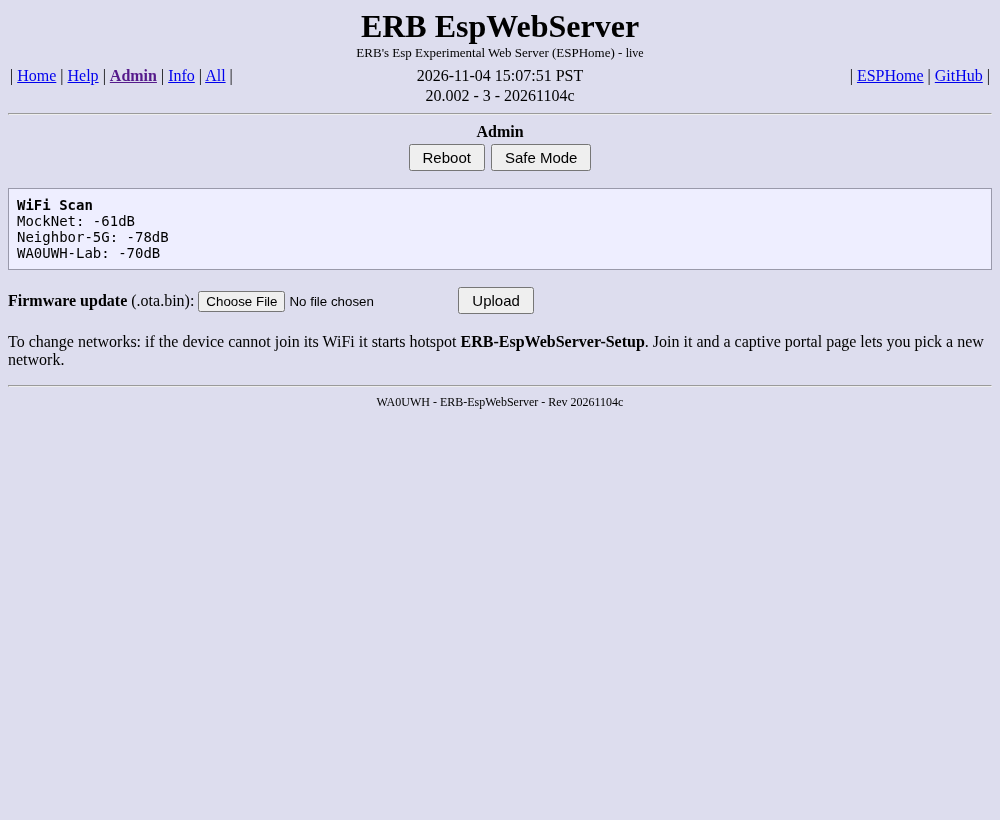
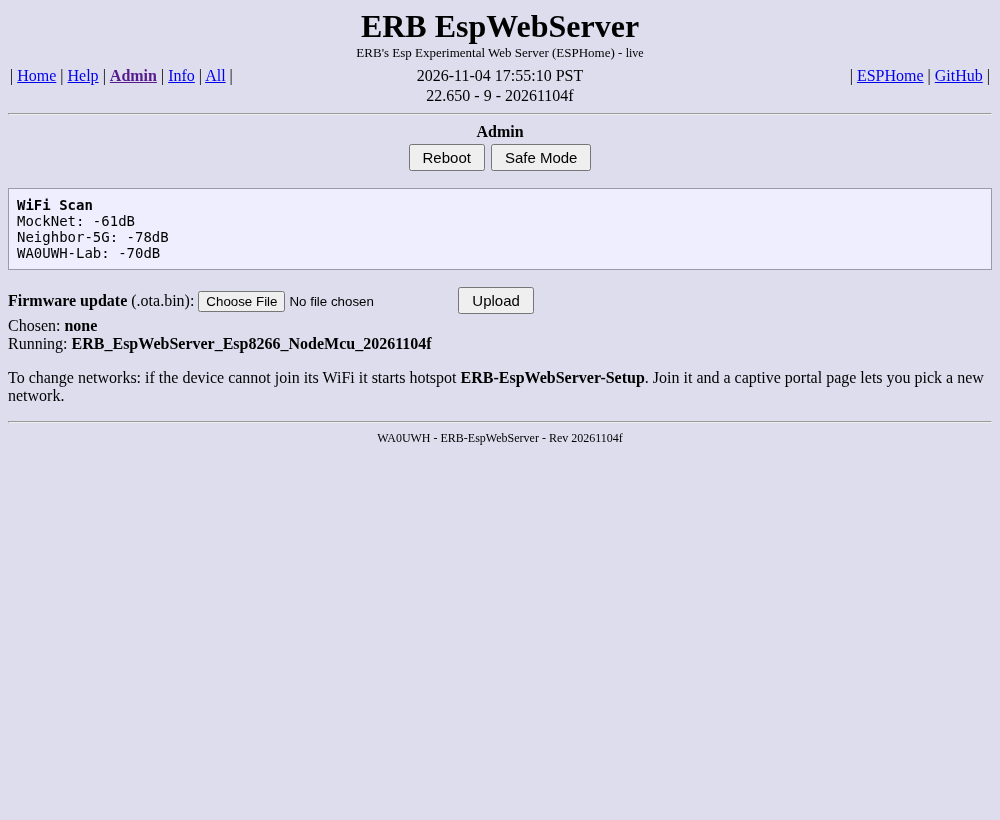
ESPHome Rev 20261104f: show Build Name (bin base name) on the page
- per-board substitutions Rev + Build_Name, equal to the bin base name
- Build Name / Build Time text sensors; footer + Info tab show them
- Admin upload shows chosen file vs running build, warns on board/variant mismatch
- guide: PlainLed48 first for HW-747; review yaml regenerated

Changed region(s): [[0.0, 0.3963, 0.992, 0.5488], [0.434, 0.0915, 0.589, 0.122]]

diff --git a/esphome/www/erb_ui.js b/esphome/www/erb_ui.js
@@ -1,11 +1,11 @@
 // Authors: Grok and Eldon R. Brown - WA0UWH
-// Rev: 20261104e
+// Rev: 20261104f
 // ERB_UI - custom multi-page UI for the standalone ESPHome ERB-EspWebServer.
 // Recreates the 2015 Home / Help / Admin / Info pages + Navigator, from flash, no internet.
 // Data: /events SSE ("state" events, id = "<domain>/<Entity Name>"); actions: REST POST.
 (function () {
   var Hist_Min = 30, Hist = [], S = {}, Page = 'home', Hits = 0;
-  var Rev = '20261104e';
+  var Rev = '20261104f';
   var css = 'body{background:#ddddee;font-family:Times New Roman,serif;margin:8px;color:#000}' +
     'h1{text-align:center;margin:4px}h1 small{font-size:13px;font-weight:normal;display:block}' +
     '.Nav{width:100%;border-collapse:collapse}.Nav td{padding:2px}.Nav a{color:#00e;cursor:pointer;text-decoration:underline}' +
@@ -87,7 +87,7 @@
         '<br>Input 1 is <b id="v_binary_sensor_Input_1">' + Esc(V('binary_sensor/Input 1')) + '</b></div>';
     },
     info: function () {
-      return '<pre>' + Row('Version', 'text_sensor/ESPHome Version') + Row('UI Rev', 'x/rev') + Row('Uptime', 'sensor/Uptime') +
+      return '<pre>' + Row('Build Name', 'text_sensor/Build Name') + Row('Build Time', 'text_sensor/Build Time') + Row('ESPHome', 'text_sensor/ESPHome Version') + Row('UI Rev', 'x/rev') + Row('Uptime', 'sensor/Uptime') +
         Row('Reset Reason', 'text_sensor/Reset Reason') + Row('Device', 'text_sensor/Device Info') +
         Row('IP Address', 'text_sensor/IP Address') + Row('SSID', 'text_sensor/Connected SSID') + Row('BSSID', 'text_sensor/Connected BSSID') +
         Row('RSSI', 'sensor/WiFi Signal') + Row('MAC', 'text_sensor/MAC Address') + Row('Free Heap', 'sensor/Free Heap') +
@@ -100,7 +100,7 @@
       return '<div class="Ctr"><b>Admin</b><br><button data-act="button/Restart/press" data-q="Reboot the device?">Reboot</button>' +
         '<button data-act="button/Restart (Safe Mode)/press" data-q="Reboot into Safe Mode (OTA only)?">Safe Mode</button></div>' +
         '<pre><b>WiFi Scan</b>\n<span id="v_text_sensor_WiFi_Scan">' + Esc(V('text_sensor/WiFi Scan')) + '</span></pre>' +
-        '<form id="otaF"><b>Firmware update</b> (.ota.bin): <input type="file" id="otaFile" accept=".bin"> <button type="submit">Upload</button> <span id="otaMsg"></span></form>' +
+        '<form id="otaF"><b>Firmware update</b> (.ota.bin): <input type="file" id="otaFile" accept=".bin"> <button type="submit">Upload</button><br>Chosen: <b id="otaName">none</b> <span id="otaMsg"></span><br>Running: <b>' + Esc(V('text_sensor/Build Name')) + '</b></form>' +
         '<p>To change networks: if the device cannot join its WiFi it starts hotspot <b>ERB-EspWebServer-Setup</b>. Join it and a captive portal page lets you pick a new network.</p>';
     },
     help: function () {
@@ -169,12 +169,18 @@
   });
   document.addEventListener('submit', function (ev) {
     if (ev.target.id != 'otaF') return; ev.preventDefault();
-    var f = $('otaFile').files[0]; if (!f || !confirm('Upload ' + f.name + ' and reboot?')) return;
+    var f = $('otaFile').files[0]; if (!f) return;
+    var run = V('text_sensor/Build Name'), want = Board(f.name), have = Board(run);
+    if (run != '--' && want != have && !confirm('WARNING: board/variant mismatch!\n  File:    ' + want + '\n  Running: ' + have + '\nUpload anyway?')) return;
+    if (!confirm('Upload ' + f.name + ' and reboot?')) return;
     var fd = new FormData(); fd.append('update', f, f.name); $('otaMsg').textContent = 'uploading...';
     fetch('/update', { method: 'POST', body: fd }).then(function (r) { return r.text().then(function (t) {
       $('otaMsg').textContent = r.ok ? 'done, rebooting: ' + t : 'failed (' + r.status + ') - this board may not have web OTA'; }); })
       .catch(function () { $('otaMsg').textContent = 'upload failed'; });
   });
+  // Board/variant part of a build name: drop folder, .factory/.ota.bin and the _YYYYMMDDx rev
+  function Board(n) { return String(n).split(/[\\/]/).pop().replace(/(\.factory|\.ota)?\.bin$/i, '').replace(/ ?\(\d+\)$/, '').replace(/_\d{8}[a-z]?$/, ''); }
+  document.addEventListener('change', function (ev) { if (ev.target.id == 'otaFile') { var f = ev.target.files[0]; $('otaName').textContent = f ? f.name : 'none'; } });
   document.addEventListener('change', function (ev) { if (ev.target.id == 'hMin') { Hist_Min = +ev.target.value; DrawLine(); } });
 
   function OnState(ev) {

diff --git a/esphome/mock/Shoot_Tabs.js b/esphome/mock/Shoot_Tabs.js
@@ -1,5 +1,5 @@
 // Authors: Grok and Eldon R. Brown - WA0UWH
-// Rev: 20261104d
+// Rev: 20261104f
 // Shoot_Tabs - headless screenshots of each ERB UI tab against Mock_Server.js.
 const puppeteer = require('/workspace/repos/grok-voice-reader-extension/chrome-extension/node_modules/puppeteer-core');
 const Out = require('path').join(__dirname, '..', 'screens');
@@ -20,10 +20,13 @@ const Out = require('path').join(__dirname, '..', 'screens');
   await p.click(`[data-pg="admin"]`); await p.click('[data-act="button/Restart/press"]');
   await p.click(`[data-pg="home"]`); await p.click('[data-led="Heartbeat"]'); await new Promise(r => setTimeout(r, 500));
   await p.click(`[data-pg="admin"]`);
-  require('fs').writeFileSync('/tmp/Test_Fw.ota.bin', Buffer.alloc(4096, 7));
-  await (await p.$('#otaFile')).uploadFile('/tmp/Test_Fw.ota.bin');
+  const Dlg = []; p.on('dialog', d => Dlg.push(d.message().split('\n')[0]));
+  const Fw = '/tmp/ERB_EspWebServer_Esp32S3_SuperMini_PlainLed48_20261104f.ota.bin'; require('fs').writeFileSync(Fw, Buffer.alloc(4096, 7));
+  await (await p.$('#otaFile')).uploadFile(Fw);
+  console.log('CHOSEN', await p.$eval('#otaName', e => e.textContent));
   await p.click('#otaF button'); await new Promise(r => setTimeout(r, 1000));
-  console.log('OTA MSG', await p.$eval('#otaMsg', e => e.textContent));
+  console.log('OTA MSG', await p.$eval('#otaMsg', e => e.textContent), 'DIALOGS', JSON.stringify(Dlg));
+  await p.click('[data-pg="admin"]'); await p.screenshot({ path: Out + '/3_Admin.png', fullPage: true });
   const nr = await fetch('http://127.0.0.1:8099/events'); console.log('NO-AUTH /events ->', nr.status);
   const posts = await (await fetch('http://127.0.0.1:8099/posts')).json();
   console.log('POSTS', JSON.stringify(posts), 'ERRORS', JSON.stringify(Errs));

diff --git a/esphome/mock/Mock_Server.js b/esphome/mock/Mock_Server.js
@@ -1,5 +1,5 @@
 // Authors: Grok and Eldon R. Brown - WA0UWH
-// Rev: 20261104d
+// Rev: 20261104f
 // Mock_Server - fakes the ESPHome v3 web_server (index, /0.js, /events SSE, POST actions)
 // (basic auth guest:grest only when MOCK_AUTH=1) so www/erb_ui.js can be tested in a browser. Usage: node Mock_Server.js [port]
 const http = require('http'), fs = require('fs'), path = require('path');
@@ -8,7 +8,7 @@ const JS = path.join(__dirname, '..', 'www', 'erb_ui.js');
 const S = {
   'sensor/Free Heap': [23456, '23456 B'], 'sensor/Vdd': [3.29, '3.29 V'], 'sensor/WiFi Signal': [-61, '-61 dBm'],
   'sensor/Uptime': [3725, '3725 s'], 'sensor/Heap Max Block': [18000, '18000 B'], 'sensor/Loop Time': [16, '16 ms'],
-  'text_sensor/ESPHome Version': [null, '2026.10.2'], 'text_sensor/Reset Reason': [null, 'Power On'],
+  'text_sensor/ESPHome Version': [null, '2026.10.2'], 'text_sensor/Build Name': [null, 'ERB_EspWebServer_Esp8266_NodeMcu_20261104f'], 'text_sensor/Build Time': [null, '2026-11-04 17:55:00 -0800'], 'text_sensor/Reset Reason': [null, 'Power On'],
   'text_sensor/Device Info': [null, '2026.10.2|Flash: 4096kB Speed:40MHz Mode:DIO|Chip: 0x00E42F'],
   'text_sensor/IP Address': [null, '10.10.10.42'], 'text_sensor/Connected SSID': [null, 'MockNet'],
   'text_sensor/Connected BSSID': [null, 'AA:BB:CC:DD:EE:FF'], 'text_sensor/MAC Address': [null, '5C:CF:7F:12:34:56'],

diff --git a/esphome/README.md b/esphome/README.md
@@ -1,9 +1,9 @@
-<!-- Authors: Grok and Eldon R. Brown - WA0UWH, Rev 20261104d -->
+<!-- Authors: Grok and Eldon R. Brown - WA0UWH, Rev 20261104f -->
 # ERB_EspWebServer (ESPHome, standalone)
 
 Standalone ESPHome rework of WA0UWH's early ERB-EspWebServer (Arduino IDE, 2015). No Home Assistant: no `api:` block; the device serves its own page (`web_server` v3) at `http://erb-espwebserver.local/`.
 
-Files: `common/ERB_Common.yaml` (shared), `ERB_EspWebServer_Esp8266.yaml` (nodemcuv2), `ERB_EspWebServer_Esp32S3_SuperMini.yaml` (HW-747 S3 Super Mini, 4 MB, LEDs IO4/5/6, input IO7, logs on USB), UI `www/erb_ui.js`.
+Files: `common/ERB_Common.yaml` (shared), `ERB_EspWebServer_Esp8266.yaml` (nodemcuv2), `ERB_EspWebServer_Esp32S3_SuperMini.yaml` (Ws2812) / `..._PlainLed48.yaml` (HW-747 S3 Super Mini, 4 MB, LEDs IO4/5/6, input IO7, logs on USB), UI `www/erb_ui.js`.
 
 Board (Esp8266): `nodemcuv2` (original drives LEDs on GPIO0/2/4, i.e. ESP-12 class). Alternative: `esp01_1m` for an ESP-01 (remove Blue LED / GPIO4 and the GPIO5 input; only GPIO0/2 are broken out).
 
@@ -20,7 +20,7 @@ Board (Esp8266): `nodemcuv2` (original drives LEDs on GPIO0/2/4, i.e. ESP-12 cla
 | Reboot | `restart` and `safe_mode` buttons | none |
 | Home/Help/Info/Admin pages, Navigator | erb_ui.js tabs + Navigator + "All" entity tab; live via /events | Visitor Map, Farm image, demo graphics, sliders (not needed) |
 
-Web login: none for now (auth block commented in common/, can be re-enabled). Custom UI: `www/erb_ui.js` is compiled into flash (`js_include`, `js_url: ""`), so the page needs no internet. Test without hardware: `node mock/Mock_Server.js` then open http://127.0.0.1:8099/.
+Each build shows its Build Name (= bin base name) and build time on the page. Web login: none for now (auth block commented in common/, can be re-enabled). Custom UI: `www/erb_ui.js` is compiled into flash (`js_include`, `js_url: ""`), so the page needs no internet. Test without hardware: `node mock/Mock_Server.js` then open http://127.0.0.1:8099/.
 
 ## Build / flash
 1. `cp secrets.yaml.example secrets.yaml` and fill in.

diff --git a/esphome/NOTES.md b/esphome/NOTES.md
@@ -1,6 +1,14 @@
 <!-- Authors: Grok and Eldon R. Brown - WA0UWH, Rev 20261104 -->
 # ERB_EspWebServer ESPHome - notes (newest first)
 
+## 2026-11-04 06:00 PM PST - Rev 20261104f (Build Name on the page)
+- Eldon: the Ws2812 e build left GPIO48 dark, so he is trying PlainLed48. He asked to see the full bin name on the page.
+- Each board file now has substitutions Rev + Build_Name (= the bin base name): ERB_EspWebServer_Esp8266_NodeMcu_20261104f, ERB_EspWebServer_Esp32S3_SuperMini_Ws2812_20261104f, ERB_EspWebServer_Esp32S3_SuperMini_PlainLed48_20261104f. The project version comes from ${Rev}.
+- common/: text_sensors "Build Name" (static ${Build_Name}) and "Build Time" (App.get_build_time_string; built on the box, so Pacific, e.g. "2026-11-04 17:56:xx -0800").
+- erb_ui.js: Build Name in the footer next to the Rev; Info shows Build Name + Build Time. Admin upload shows the Chosen file name and the Running build. It warns (with confirm) when the file's board/variant differs from the running Build_Name, ignoring the _YYYYMMDDx rev and .factory/.ota.bin. Mock test: warning fired for S3 file vs NodeMcu running, then the upload went OK.
+- Verified each ota.bin contains its own Build_Name string.
+- Compile: NodeMcu RAM 34,472 B (42.1%), Flash 411,569 B (39.4%). Ws2812 RAM 111,171 B (32.5%), Flash 905,003 B (49.3%). PlainLed48 RAM 107,563 B (31.5%), Flash 866,995 B (47.2%).
+
 ## 2026-11-04 05:45 PM PST - Rev 20261104e (S3 only; NodeMCU stays 20261104d)
 - Eldon: the onboard blue LED blinks about 1/s even with Heartbeat off. That is the battery-charge LED and firmware can't control it (confirmed: fomenko.kyiv.ua/esp32-s3-super-mini-led-rgb-red-blue/ : BLUE = charge, RED = direct on GP48, RGB WS2812 on GP48). Heartbeat was going to IO6 with nothing attached. Eldon said "move it" to GPIO48.
 - Ws2812 build: esp32_rmt_led_strip Onboard_Rgb (GPIO48, GRB, 1 LED, internal, 0 s transition). The S3 file uses "!extend Blu_LED" to add on_turn_on (blue, 40%) and on_turn_off, so the common heartbeat and Heartbeat-OFF drive the WS2812 and IO6 together. common/ is unchanged.

diff --git a/esphome/flash/Flash_S3_SuperMini.md b/esphome/flash/Flash_S3_SuperMini.md
@@ -1,10 +1,12 @@
-<!-- Authors: Grok and Eldon R. Brown - WA0UWH, Rev 20261104e -->
+<!-- Authors: Grok and Eldon R. Brown - WA0UWH, Rev 20261104f -->
 # Flash the ESP32-S3 Super Mini (first time, no ESPHome install)
 
 You need: Chrome or Brave on a computer, a USB-C **data** cable, and the file
-a `.factory.bin` file. Two versions, try them in this order:
-- **First:** `ERB_EspWebServer_Esp32S3_SuperMini_Ws2812_20261104e.factory.bin` (the onboard RGB LED blinks blue).
-- **If the onboard LED never blinks:** `ERB_EspWebServer_Esp32S3_SuperMini_PlainLed48_20261104e.factory.bin` (for boards with a plain LED on GPIO48).
+a `.factory.bin` file. Two versions for the S3 Super Mini:
+- **Use first:** `ERB_EspWebServer_Esp32S3_SuperMini_PlainLed48_20261104f.factory.bin` (plain LED on GPIO48). On Eldon's HW-747 the Ws2812 build left the LED dark.
+- **Other:** `ERB_EspWebServer_Esp32S3_SuperMini_Ws2812_20261104f.factory.bin` (boards with an RGB LED on GPIO48).
+
+The loaded file name (Build Name) shows in the page footer and on the Info tab, together with the build time.
 
 1. Plug the Super Mini into the computer with the USB-C cable.
 2. Open **https://web.esphome.io** in Chrome or Brave.
@@ -24,7 +26,8 @@ The small blue LED that blinks about once a second even with Heartbeat off is th
 
 ## Updating later (no USB) - Rev 20261104b and newer (current 20261104d)
 1. Open http://erb-espwebserver-s3.local/ and click **Admin**.
-2. Under **Firmware update**, choose the new `...ota.bin` file and click **Upload**, then OK.
+2. Under **Firmware update**, choose the new `...ota.bin` file. It shows as "Chosen", next to the "Running" build. Click **Upload**, then OK.
+   If the file is for a different board or variant, a warning appears first. A different rev letter is fine.
 3. Wait about 30 seconds while it reboots, then reload the page. Check the Rev in the footer.
 
 Boards still on Rev 20261104 have no Upload button yet. Use the USB steps above once with the 20261104b `.factory.bin`.
